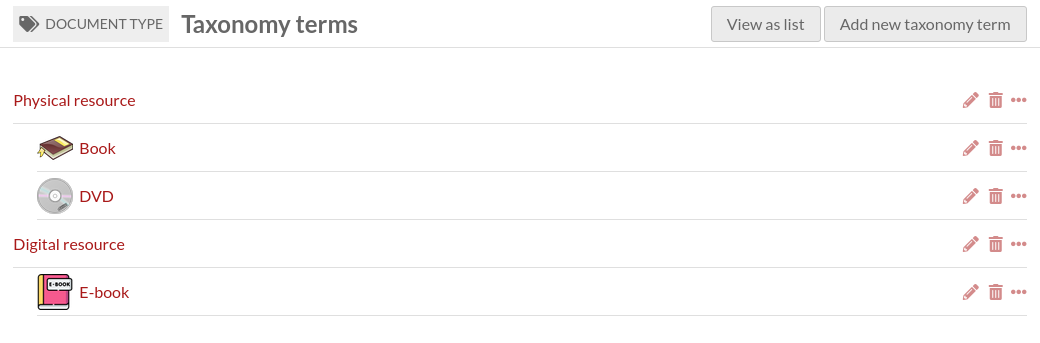
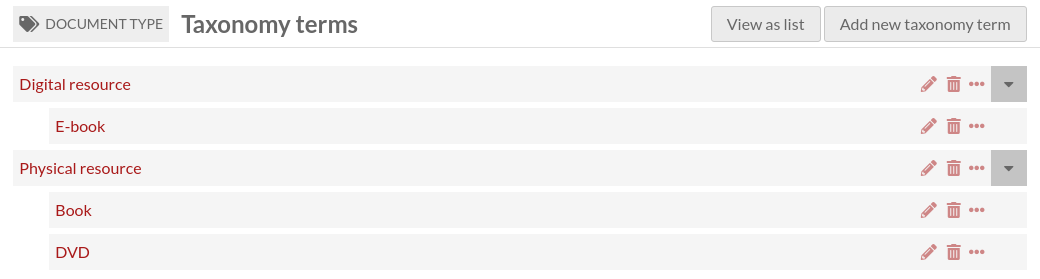
Add a tree view in the taxonomy term selection sidebar

diff --git a/asset/js/taxonomy-term-tree.js b/asset/js/taxonomy-term-tree.js
@@ -1,17 +1,31 @@
 (function () {
     'use strict';
 
-    $(document).ready(function() {
-        $('.taxonomy-term-tree').each(function () {
-            const taxonomyId = this.getAttribute('data-taxonomy-id');
+    $(document).ready(function (event) {
+        $('#content').on('click', '.taxonomy-tree-view-toggle', function (event) {
+            $(this).closest('.sidebar').toggleClass('taxonomy-tree-view');
+        });
+    });
+
+    $(document).on('o:sidebar-content-loaded', function (event) {
+        initTaxonomyTermTree(event.target);
+    });
+
+    $(document).ready(function (event) {
+        initTaxonomyTermTree(event.target);
+    });
+
+    function initTaxonomyTermTree (context) {
+        $('.taxonomy-term-tree', context).each(function () {
+            const childrenUrl = this.getAttribute('data-children-url');
             $(this).jstree({
                 core: {
                     data: {
-                        url: `/admin/taxonomy/${taxonomyId}/term-children`,
+                        url: childrenUrl,
                         data: function (node) {
                             const params = {};
                             if (node.id !== '#') {
-                                params.id = node.id;
+                                params.parent_id = node.id;
                             }
 
                             return params;
@@ -22,12 +36,12 @@
         });
 
         // Make clicks on taxonomy term title and edit icon work as expected
-        $('.taxonomy-term-tree').on('changed.jstree', function (event, data) {
+        $('.taxonomy-term-tree', context).on('changed.jstree', function (event, data) {
             const target = data.event.target;
             const href = target.getAttribute('href');
             if (href && href !== '#') {
                 location.href = href
             }
         });
-    });
+    }
 })();

diff --git a/asset/css/taxonomy.css b/asset/css/taxonomy.css
@@ -63,3 +63,38 @@ header nav .taxonomy-terms::before {
     margin-left: .5em;
     opacity: .5;
 }
+
+.sidebar .taxonomy-term-sidebar-tree {
+    display: none;
+}
+
+.sidebar.taxonomy-tree-view .taxonomy-term-sidebar-tree {
+    display: block;
+}
+.sidebar.taxonomy-tree-view .taxonomy-term-sidebar-list {
+    display: none;
+}
+
+.sidebar button.taxonomy-tree-view-toggle {
+    background-color: transparent;
+    color: #676767;
+    box-shadow: none;
+    margin: 12px;
+    padding: 0;
+    line-height: 1;
+    min-height: 0
+}
+.sidebar button.taxonomy-tree-view-toggle:before {
+    font-family: "Font Awesome 5 Free";
+    font-weight: 900;
+    content: "";
+    display: inline-block;
+    margin-right: 6px
+}
+.sidebar.taxonomy-tree-view button.taxonomy-tree-view-toggle:before {
+    content: ""
+}
+
+.taxonomy-term-sidebar-tree .jstree-children:not(.jstree-container-ul) {
+    padding-left: 12px;
+}

diff --git a/src/Controller/Admin/TaxonomyTermController.php b/src/Controller/Admin/TaxonomyTermController.php
@@ -3,6 +3,7 @@ namespace Taxonomy\Controller\Admin;
 
 use Laminas\Mvc\Controller\AbstractActionController;
 use Laminas\View\Model\ViewModel;
+use Laminas\View\Model\JsonModel;
 use Omeka\Form\ConfirmForm;
 use Omeka\Form\ResourceBatchUpdateForm;
 use Taxonomy\Form\TaxonomyTermForm;
@@ -96,23 +97,35 @@ class TaxonomyTermController extends AbstractActionController
         return $view;
     }
 
-    public function termChildrenAction()
+    public function browseJstreeAction()
     {
-        $id = $this->params()->fromQuery('id');
-        if ($id) {
-            $data = ['parent_id' => $id, 'sort_by' => 'title'];
-            $children = $this->api()->search('taxonomy_terms', $data)->getContent();
-        } else {
-            $taxonomy_id = $this->params()->fromRoute('taxonomy-id');
-            $data = ['taxonomy_id' => $taxonomy_id, 'parent_id' => null, 'sort_by' => 'title'];
-            $children = $this->api()->search('taxonomy_terms', $data)->getContent();
+        $query = $this->params()->fromQuery();
+
+        if (!array_key_exists('parent_id', $query)) {
+            $query['parent_id'] = null;
         }
 
-        $view = new ViewModel;
-        $view->setVariable('terms', $children);
-        $view->setTerminal(true);
+        $context = $query['context'] ?? '';
+        unset($query['context']);
+        if ($context === 'sidebar-select') {
+            $partialName = 'taxonomy/common/taxonomy-term-jstree-node-text-sidebar-select.phtml';
+        } else {
+            $partialName = 'taxonomy/common/taxonomy-term-jstree-node-text.phtml';
+        }
 
-        return $view;
+        $taxonomyTerms = $this->api()->search('taxonomy_terms', $query)->getContent();
+        $partialViewHelper = $this->viewHelpers()->get('partial');
+
+        $response = [];
+        foreach ($taxonomyTerms as $taxonomyTerm) {
+            $response[] = [
+                'id' => $taxonomyTerm->id(),
+                'text' => $partialViewHelper($partialName, ['taxonomyTerm' => $taxonomyTerm]),
+                'children' => $taxonomyTerm->hasChildren(),
+            ];
+        }
+
+        return new JsonModel($response);
     }
 
     public function showAction()

diff --git a/config/module.config.php b/config/module.config.php
@@ -140,20 +140,6 @@ return [
                             ],
                         ],
                     ],
-                    'taxonomy-term-children' => [
-                        'type' => \Laminas\Router\Http\Segment::class,
-                        'options' => [
-                            'route' => '/taxonomy/:taxonomy-id/term-children',
-                            'constraints' => [
-                                'taxonomy-id' => '\d+',
-                            ],
-                            'defaults' => [
-                                '__NAMESPACE__' => 'Taxonomy\Controller\Admin',
-                                'controller' => 'taxonomy-term',
-                                'action' => 'termChildren',
-                            ],
-                        ],
-                    ],
                     'taxonomy-term' => [
                         'type' => \Laminas\Router\Http\Segment::class,
                         'options' => [

diff --git a/Module.php b/Module.php
@@ -151,7 +151,11 @@ class Module extends AbstractModule
     {
         $view = $event->getTarget();
         if ($view->params()->fromRoute('__ADMIN__')) {
+            $view->headLink()->appendStylesheet($view->assetUrl('css/jstree.css', 'Omeka'));
             $view->headLink()->appendStylesheet($view->assetUrl('css/taxonomy.css', 'Taxonomy'));
+
+            $view->headScript()->appendFile($view->assetUrl('vendor/jstree/jstree.min.js', 'Omeka'));
+            $view->headScript()->appendFile($view->assetUrl('js/taxonomy-term-tree.js', 'Taxonomy'));
             $view->headScript()->appendFile($view->assetUrl('js/resource-form.js', 'Taxonomy'));
         }
     }

diff --git a/src/Api/Representation/TaxonomyTermRepresentation.php b/src/Api/Representation/TaxonomyTermRepresentation.php
@@ -85,7 +85,7 @@ class TaxonomyTermRepresentation extends AbstractResourceEntityRepresentation
         );
     }
 
-    public function subjectValueTotalCount($property = null)
+    public function subjectValueTotalCount($property = null, $resourceType = null, $siteId = null)
     {
         return $this->getAdapter()->getSubjectValueTotalCount($this->resource, $property);
     }

diff --git a/src/Api/Representation/TaxonomyRepresentation.php b/src/Api/Representation/TaxonomyRepresentation.php
@@ -91,7 +91,7 @@ class TaxonomyRepresentation extends AbstractResourceEntityRepresentation
         );
     }
 
-    public function subjectValueTotalCount($property = null)
+    public function subjectValueTotalCount($property = null, $resourceType = null, $siteId = null)
     {
         return $this->getAdapter()->getSubjectValueTotalCount($this->resource, $property);
     }

diff --git a/CHANGELOG.md b/CHANGELOG.md
@@ -12,6 +12,7 @@ and this project adheres to [Semantic Versioning](https://semver.org/spec/v2.0.0
     selector
   - Taxonomy term hierarchy now displays only root terms. Children are loaded
     dynamically when user clicks on a term
+- Added a tree view in the taxonomy term selection sidebar
 
 ## [0.3.1] - 2023-10-05
 
